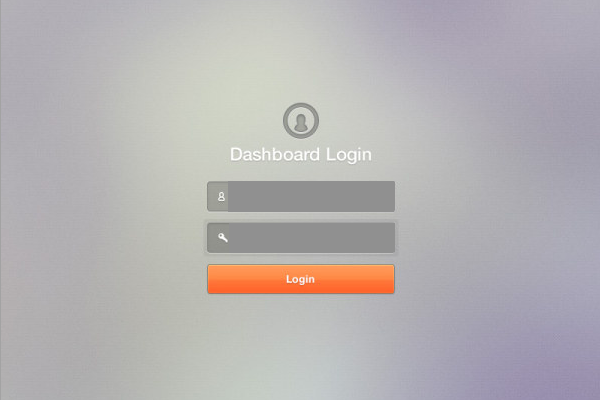
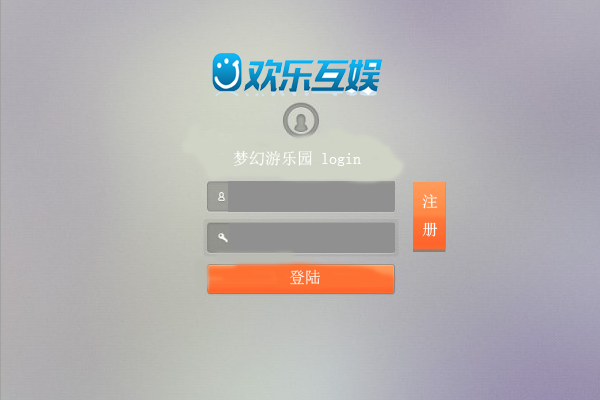
optim loginScene and add RegisterScene

diff --git a/Classes/RegisterScene.cpp b/Classes/RegisterScene.cpp
@@ -1,19 +1,18 @@
-#include "LogInScene.h"
-#include "MainScene.h"
 #include "RegisterScene.h"
+#include "LogInScene.h"
 #include "socketClient.h"
 USING_NS_CC;
 
-Scene* LogInScene::createScene(){
+Scene* RegisterScene::createScene(){
 	auto scene = Scene::create();
-	auto layer = LogInScene::create();
+	auto layer = RegisterScene::create();
 	scene->addChild(layer);
 	return scene;
 }
-bool LogInScene::init(){
+bool RegisterScene::init(){
 	if(!Layer::init())	return false;
 	Size vSize  = Director::getInstance()->getVisibleSize();
-	auto bgSprite = Sprite::create("login.png");
+	auto bgSprite = Sprite::create("register.png");
 	float rateX = vSize.width/bgSprite->getContentSize().width;
 	float rateY = vSize.height/bgSprite->getContentSize().height;
 	bgSprite->setPosition(vSize/2);
@@ -29,15 +28,19 @@ bool LogInScene::init(){
 	addChild(TextFieldPSW);
 	TextFieldPSW->setPosition(Vec2(300*rateX,162*rateY));
 
+	TextFieldPSWS = MyTextFieldTTF::myTextFieldWithPlaceHolder(2,"<Confirm your PassWord>","fonts/Marker Felt.ttf",20);
+	addChild(TextFieldPSWS);
+	TextFieldPSWS->setPosition(Vec2(300*rateX,125*rateY));
+	
 	hintMsg = Label::createWithTTF("","fonts/Marker Felt.ttf",20);
 	addChild(hintMsg);
 	hintMsg->setTextColor(Color4B(138,43,226,255));
-	hintMsg->setPosition(Vec2(300*rateX,70*rateY));
+	hintMsg->setPosition(Vec2(300*rateX,60*rateY));
 
 	Rect rectPID = Rect(210*rateX,190*rateY,175*rateX,30*rateY);
 	Rect rectPSW = Rect(210*rateX,148*rateY,175*rateX,30*rateY);
-	Rect rectLOG = Rect(210*rateX,109*rateY,175*rateX,30*rateY);
-	Rect rectREG = Rect(414*rateX,150*rateY,32*rateX,62*rateY);
+	Rect rectPSWS = Rect(210*rateX,109*rateY,175*rateX,30*rateY);
+	Rect rectREG = Rect(424*rateX,108*rateY,49*rateX,108*rateY);
 
 	auto listener = EventListenerTouchOneByOne::create();
 	listener->onTouchBegan = [=](Touch* touch,Event* evt){
@@ -47,16 +50,22 @@ bool LogInScene::init(){
 			log("PID");
 			TextFieldPID->attachWithIME();
 			TextFieldPSW->detachWithIME();
+			TextFieldPSWS->detachWithIME();
 		}else if( rectPSW.containsPoint(touch->getLocation()) ){
 			log("PSW");
 			TextFieldPSW->attachWithIME();
+			TextFieldPSWS->detachWithIME();
 			TextFieldPID->detachWithIME();
-		}else if( rectLOG.containsPoint(touch->getLocation()) ){
-			log("SUCCESS");
-			logIn();
+		}else if( rectPSWS.containsPoint(touch->getLocation()) ){
+			log("PSWS");
+			TextFieldPSWS->attachWithIME();
+			TextFieldPSW->detachWithIME();
+			TextFieldPID->detachWithIME();
 		}else if( rectREG.containsPoint(touch->getLocation()) ){
 			log("Register");
-			Director::getInstance()->replaceScene(RegisterScene::createScene());
+			if(TextFieldPSW->getString().size()<3)	invalidPSW();
+			else if(TextFieldPSW->getString() == TextFieldPSWS->getString())	registerID();
+			else wrongPSW();
 		}else{
 			TextFieldPID->detachWithIME();
 			TextFieldPSW->detachWithIME();
@@ -66,19 +75,28 @@ bool LogInScene::init(){
 	_eventDispatcher->addEventListenerWithSceneGraphPriority(listener,this);
 	return true;
 }
-void LogInScene::logIn(){
+void RegisterScene::registerID(){
 	socketClient test;
-	if(test.LoginSendData(TextFieldPID->getString(),TextFieldPSW->getString(),2)) logInSuccess();
-	else	logInFail();
+	if(test.LoginSendData(TextFieldPID->getString(),TextFieldPSW->getString(),1)) registerSuccess();
+	else	registerFail();
 }
-void LogInScene::logInSuccess(){
-	log(TextFieldPID->getString().c_str());
-	log(TextFieldPSW->getString().c_str());
-	auto scene = MainScene::createScene();
+void RegisterScene::registerSuccess(){
+	auto scene = LogInScene::createScene();
 	Director::getInstance()->replaceScene(scene);
 }
-void LogInScene::logInFail(){
+void RegisterScene::wrongPSW(){
+	TextFieldPSW->setString("");
+	TextFieldPSWS->setString("");
+	hintMsg->setString("passwords don\'t match");
+}
+void  RegisterScene::invalidPSW(){
+	TextFieldPSW->setString("");
+	TextFieldPSWS->setString("");
+	hintMsg->setString("passwords is invalid");
+}
+void RegisterScene::registerFail(){
 	TextFieldPID->setString("");
 	TextFieldPSW->setString("");
-	hintMsg->setString("Incorrect ID or password");
+	TextFieldPSWS->setString("");
+	hintMsg->setString("The ID has been registered before");
 }

diff --git a/Classes/RegisterScene.h b/Classes/RegisterScene.h
@@ -1,0 +1,21 @@
+#ifndef __REGISTERSCENE_H__
+#define __REGISTERSCENE_H__
+#include "MyTextFieldTTF.h"
+#include "cocos2d.h"
+class RegisterScene : public cocos2d::Layer{
+public:
+    static cocos2d::Scene* createScene();
+    virtual bool init();
+	void registerID();
+    CREATE_FUNC(RegisterScene);
+private:
+	void registerSuccess();
+	void registerFail();
+	void invalidPSW();
+	void wrongPSW();
+	cocos2d::Label* hintMsg;
+	MyTextFieldTTF* TextFieldPID;
+	MyTextFieldTTF* TextFieldPSW;
+	MyTextFieldTTF* TextFieldPSWS;
+};
+#endif

diff --git a/Classes/LogInScene.h b/Classes/LogInScene.h
@@ -2,14 +2,16 @@
 #define __LOGINSCENE_H__
 #include "MyTextFieldTTF.h"
 #include "cocos2d.h"
-#include <string>
 class LogInScene : public cocos2d::Layer{
 public:
     static cocos2d::Scene* createScene();
     virtual bool init();
+	void logIn();
     CREATE_FUNC(LogInScene);
 private:
 	void logInSuccess();
+	void logInFail();
+	cocos2d::Label* hintMsg;
 	MyTextFieldTTF* TextFieldPID;
 	MyTextFieldTTF* TextFieldPSW;
 };
